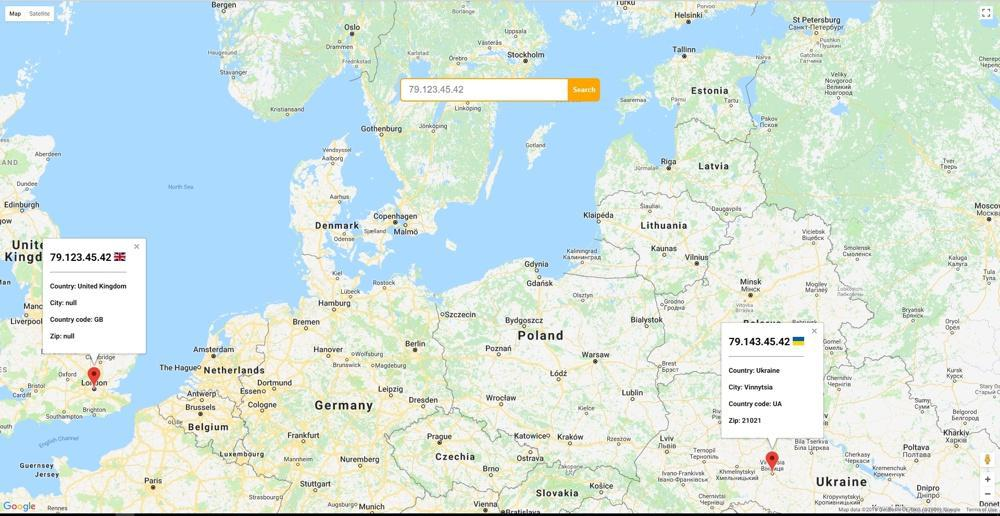
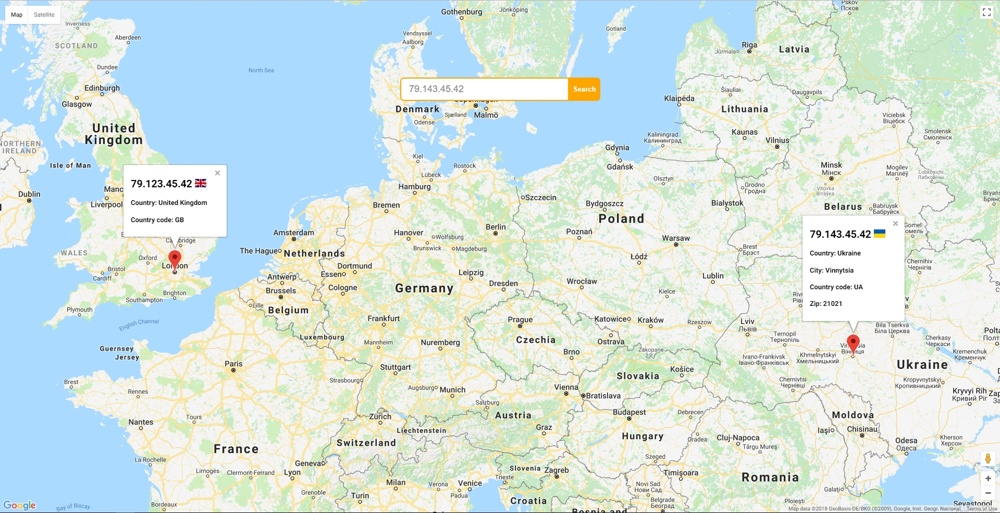
Add validation for null fields

diff --git a/js/script.js b/js/script.js
@@ -51,12 +51,19 @@ function searchIP() {
 }
 
 function attachIPInfo(marker, data) {
-    const html = `<h2>${data.ip} <img class="country-flag-img" src="${data.location.country_flag}"></h2>`
-        + `<hr>`
-        + `<h4>Country: ${data.country_name}</h4>`
-        + `<h4>City: ${data.city}</h4>`
-        + `<h4>Country code: ${data.country_code}</h4>`
-        + `<h4>Zip: ${data.zip}</h4>`;
+    let html = `<h2>${data.ip} <img class="country-flag-img" src="${data.location.country_flag}"></h2>`;
+    const propsHtml = {
+        'country_name': `<h4>Country: ${data.country_name}</h4>`,
+        'city': `<h4>City: ${data.city}</h4>`,
+        'country_code': `<h4>Country code: ${data.country_code}</h4>`,
+        'zip': `<h4>Zip: ${data.zip}</h4>`
+    };
+    const keys = ['country_name', 'city', 'country_code', 'zip'];
+    keys.forEach(key => {
+        if (data[key] !== null) {
+            html += propsHtml[key];
+        }
+    });
     const info = new google.maps.InfoWindow({
         content: html
     });
